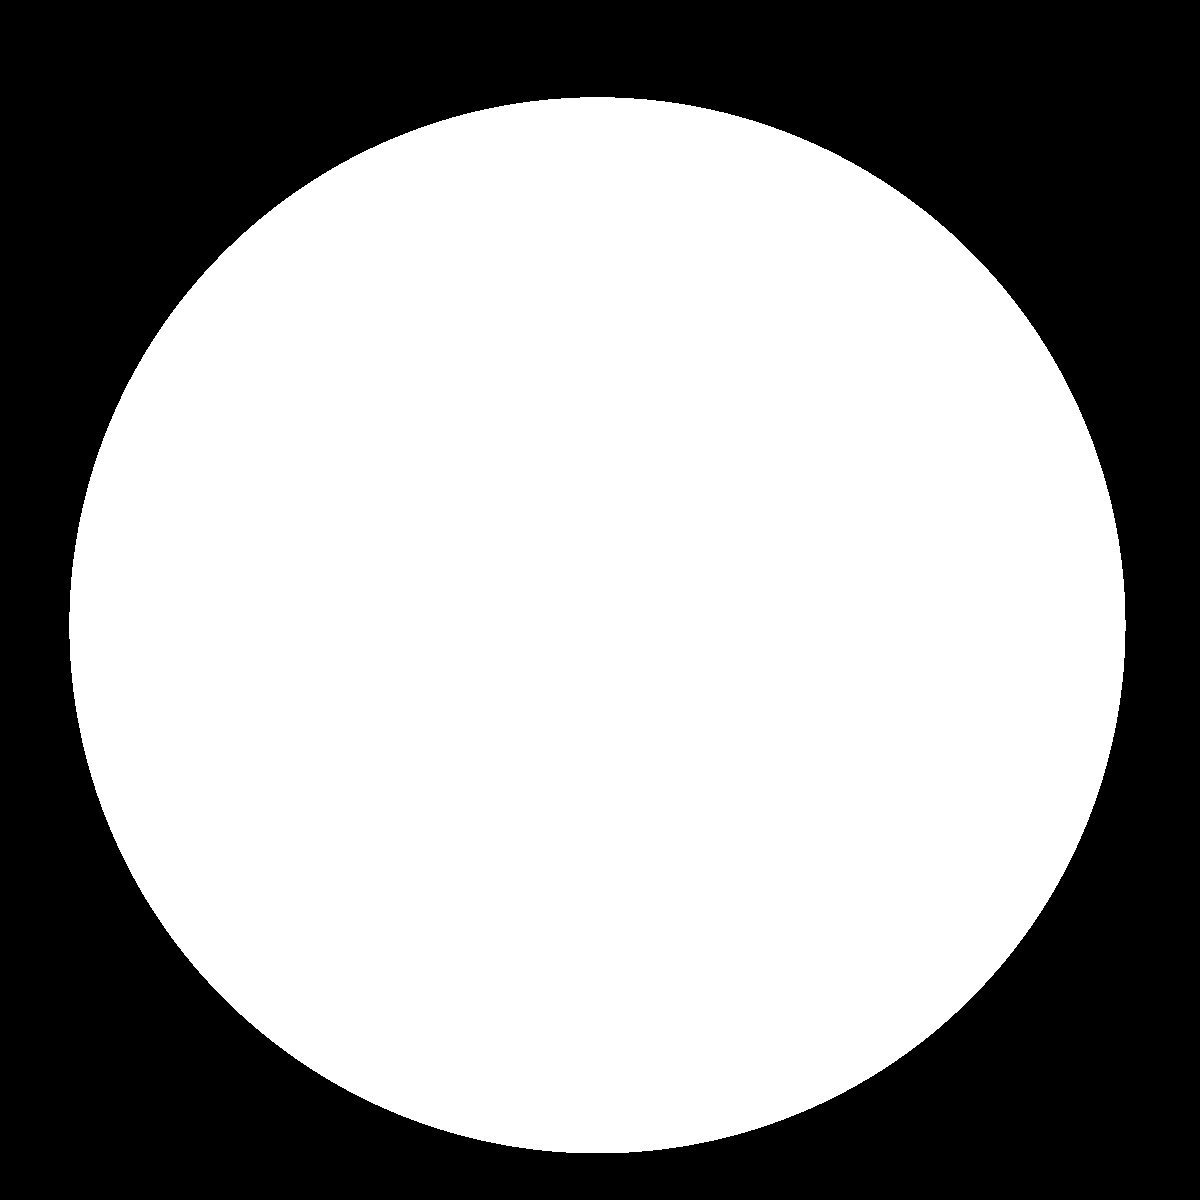
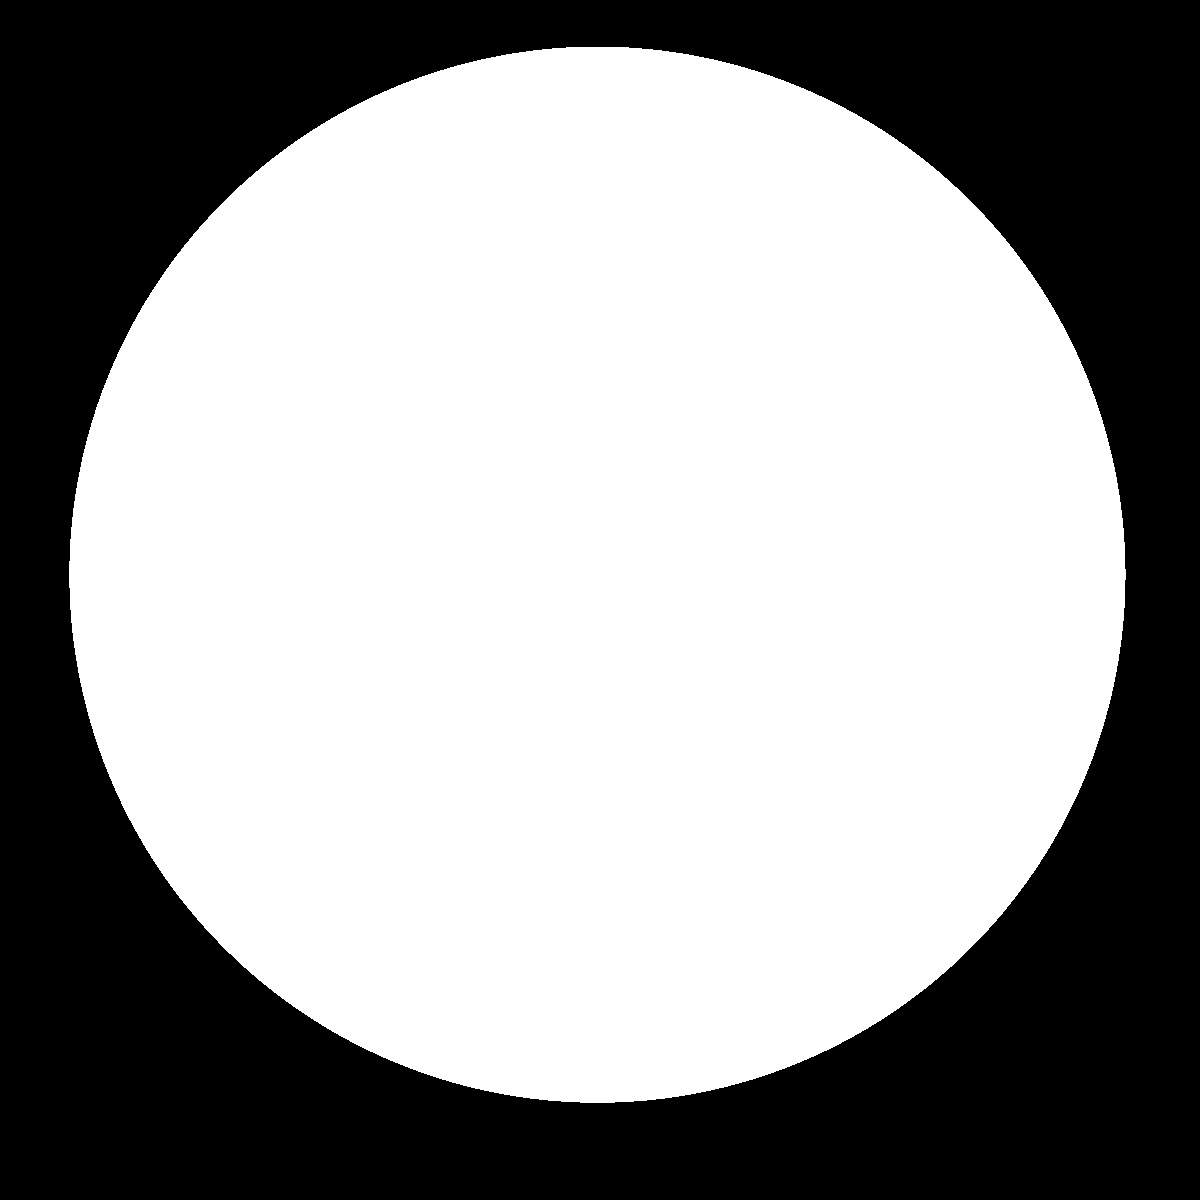
normal_map有bug，得出结果不一致

diff --git a/src/normal_map.py b/src/normal_map.py
@@ -1,0 +1,118 @@
+import cv2
+import numpy as np
+import os
+from matplotlib import pyplot as plt
+from PIL import Image
+import numpy
+import math
+from scipy import linalg
+
+
+def compute_normals(light_matrix, mask_array, images_array, threshold=100):
+    shap = mask_array.shape
+    shaper = (shap[0], shap[1], 3)
+
+    normal_map = np.zeros(shaper)
+    ivec = np.zeros(len(images_array))
+
+    for (xT, value) in np.ndenumerate(mask_array):
+        if(value > threshold):
+            for (pos, image) in enumerate(images_array):
+                ivec[pos] = image[xT[0], xT[1]]
+
+            (normal, res, rank, s) = linalg.lstsq(light_matrix, ivec)
+
+            normal = normal/linalg.norm(normal)
+
+            if not np.isnan(np.sum(normal)):
+                normal_map[xT] = normal
+
+    return normal_map
+
+def compute_albedo(light_matrix, mask_array, images_array, normal_map, threshold=100):
+    shap = mask_array.shape
+    shaper = (shap[0], shap[1], 3)
+
+    albedo_map = np.zeros(shaper)
+    ivec = np.zeros((len(images_array), 3))
+
+    for (xT, value) in np.ndenumerate(mask_array):
+        if(value > threshold):
+            for (pos, image) in enumerate(images_array):
+                ivec[pos] = image[xT[0], xT[1]]
+
+            i_t = np.dot(light_matrix, normal_map[xT])
+
+            k = np.dot(np.transpose(ivec), i_t)/(np.dot(i_t, i_t))
+
+            if not np.isnan(np.sum(k)):
+                albedo_map[xT] = k
+
+    return albedo_map
+
+def photometric_stereo(images_files, mask_image_file, lights_file, threshold=25):
+    f = open(lights_file, encoding='utf-8')
+    txt = []
+    for line in f:
+        txt.append(line.strip())
+    lights = []
+    tot = len(txt)
+    for i in range(tot):
+        w = txt[i].split()
+        lights.append((float(w[0])/tot,float(w[1])/tot,float(w[2])/tot))
+    mask_image = cv2.imread(mask_image_file)
+    mask_image_gray = cv2.cvtColor(mask_image, cv2.COLOR_BGR2GRAY)
+    mask_image_array = np.array(mask_image_gray)
+
+    images = []
+    images_array = []
+    images_gray = []
+    images_gray_array = []
+
+    for image_file in images_files:
+        image = cv2.imread(path +'/Objects/'+image_file)
+        image_array = np.array(image)
+
+        image_gray = cv2.cvtColor(image, cv2.COLOR_BGR2GRAY)
+        image_gray_array = np.array(image_gray)
+
+        images.append(image)
+        images_array.append(image_array)
+        images_gray.append(image_gray)
+        images_gray_array.append(image_gray_array)
+
+    normal_map = compute_normals(np.array(lights), mask_image_array, images_gray_array)
+    albedo_map = compute_albedo(np.array(lights), mask_image_array, images_array, normal_map)
+
+    return normal_map, albedo_map
+
+def read_img(path):
+    files = os.listdir(path)
+    image_list = []
+    for item in files:
+        if item.find('Image') != -1:
+            image_list.append(item)
+    return image_list
+
+def main(path,animal):
+    images_files = read_img(path+'/Objects')
+    mask_image_file = path +'/Objects'+ '/'+str(animal)+'_mask.png'
+    lights_file = path+'/light.txt'
+    normal_map,albedo_map = photometric_stereo(images_files,mask_image_file,lights_file)
+    normal_map = np.array(normal_map)
+    albedo_map = np.array(albedo_map)
+    scaled_normal_map = (normal_map * 255 / np.max(normal_map)).astype(np.uint8)
+    scaled_albedo_map = (albedo_map * 255 / np.max(albedo_map)).astype(np.uint8)
+
+
+    plt.imshow(cv2.cvtColor(np.float32(scaled_normal_map / 255), cv2.COLOR_BGR2RGB))
+    plt.show()
+
+    plt.imshow(cv2.cvtColor(np.float32(scaled_albedo_map / 255), cv2.COLOR_BGR2RGB))
+    plt.show()
+
+
+
+if __name__ == '__main__':
+    path = '../data/cat'
+    main(path,'cat')

diff --git a/src/compute_light_directions.py b/src/compute_light_directions.py
@@ -3,9 +3,7 @@ import numpy as np
 import os
 from matplotlib import pyplot as plt
 from PIL import Image
-import argparse
 import numpy
-import scipy.misc
 import math
 def init_circle_data(path):
     f = open(path+'/circle_data.txt', encoding='utf-8')
@@ -31,6 +29,7 @@ def generate_mask(path):
     file = path + '/' + image_list[0]
     img = cv2.imread(file)
     shape = img.shape
+    print(shape)
     h, w = shape[0], shape[1]
     shape = np.array(shape)
     mask = np.zeros(shape, np.uint8)
@@ -38,18 +37,13 @@ def generate_mask(path):
     for y in range(h):
         for x in range(w):
             if (x - cx) ** 2 + (y - cy) ** 2 <= r ** 2:
-                mask[y][x] = (255, 255, 255)
+                mask[h-y-1][x] = (255, 255, 255)
             else:
-                mask[y][x] = (0, 0, 0)
+                mask[h-y-1][x] = (0, 0, 0)
     plt.imshow(cv2.cvtColor(np.float32(mask / 255), cv2.COLOR_BGR2RGB))
     plt.show()
     cv2.imwrite(path + '/' + 'mask.jpg', mask)
 
-def filterF(a, threshold):
-    if a > threshold:
-        return (255, 0, 0, 0)
-    else:
-        return (0, 0, 0, 0)
 
 def compute_centroid(im_array, threshold=100):
     tot = 0.0
@@ -69,12 +63,12 @@ def compute_light_directions(path):
     R = np.array([0, 0, 1])
     mask_image = cv2.imread(path+'/'+'mask.jpg')
     mask_image_gray =  cv2.cvtColor(mask_image, cv2.COLOR_BGR2GRAY)
-    mask_image_array = Image.fromarray(mask_image_gray)
+    mask_image_array = np.array(mask_image_gray)
     light_directions = []
     for image_file in image_list:
         image = cv2.imread(path+'/'+image_file)
         image_gray = cv2.cvtColor(image, cv2.COLOR_BGR2GRAY)
-        image_array = Image.fromarray(image_gray)
+        image_array = np.array(image_gray)
         centroid = compute_centroid(image_array)
         dx = centroid[1] - cy
         dy = centroid[0] - cx
@@ -96,7 +90,19 @@ def avg_light_direction(path):
         for light in light_directions:
             output_file.write('%lf %lf %lf\n' % (light[0], light[1], light[2]))
 
-path = '../data/scholar'
-avg_light_direction(path)
-
+if __name__ =='__main__':
+    path = '../data/scholar'
+    #generate_mask(path)
+    avg_light_direction(path)
+    '''
+    img = cv2.imread(path+'/ref.JPG')
+    cx,cy,r = init_circle_data(path)
+    center=(int(cx),int(cy))
+    color = (0, 255, 0)  # 在OpenCV中，BGR顺序表示颜色
+    thickness = 2
+    cv2.circle(img, center, int(r), color, thickness)
+    cv2.imshow('Circle', img)
+    cv2.waitKey(0)
+    cv2.destroyAllWindows()
+    '''
 
